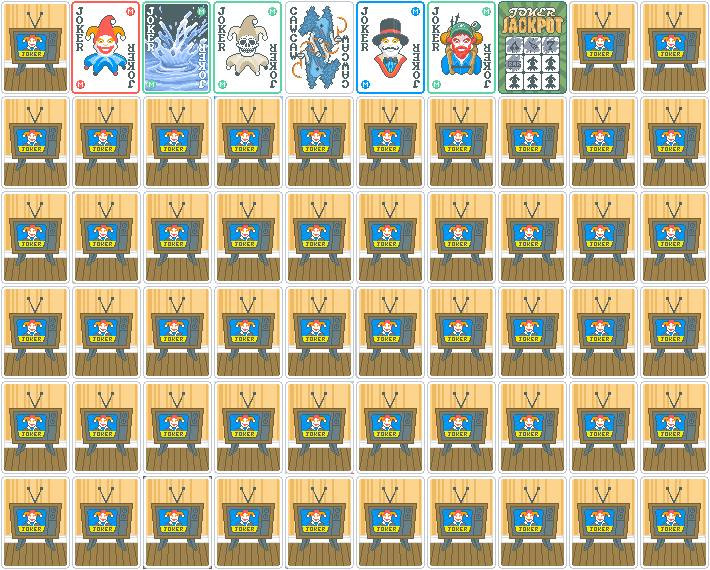
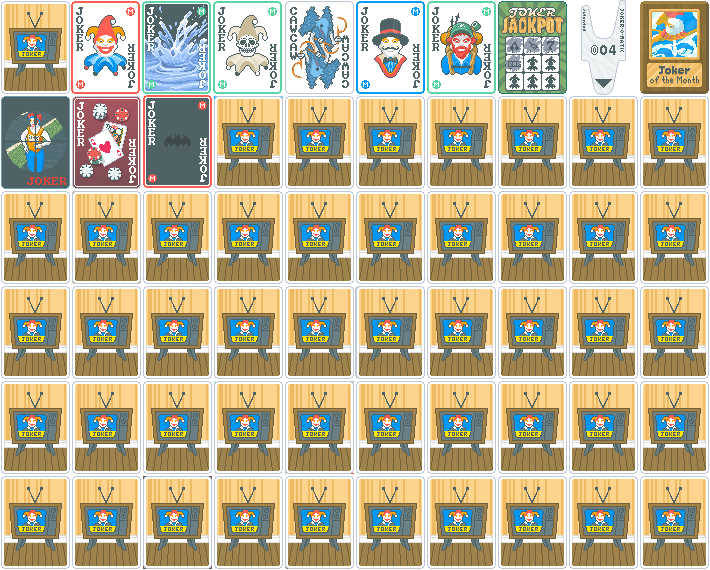
1.0 rewrite (13/60)

Changed region(s): [[0.0, 0.1491, 0.3099, 0.3579], [0.8056, 0.0, 1.0, 0.1789]]

diff --git a/README.md b/README.md
@@ -14,4 +14,4 @@ This is my mod for the game [Balatro](https://store.steampowered.com/app/2379780
 - For more information about installing mods, check the [Steamodded readme](https://github.com/Steamopollys/Steamodded?tab=readme-ov-file#how-to-install-a-mod).
 
 # Credit
-Special thanks to `@Grassy` for making the art and special thanks to `@Dimserene` and `@elbe` for porting the mod to 1.0.
+Special thanks to `@Grassy` for making the art and special thanks to `@elbe` for porting the mod to 1.0.

diff --git a/changelog.md b/changelog.md
@@ -1,9 +1,11 @@
 ## Update V1.0.0
-### Steamodded
+### Steamodded Update
 * Updated to Steamodded version 1.0 and lovely version 0.6.
+### Balance Changes
+* Blackjack Joker now gives X4 Mult instead of X3 Mult.
+* Fisherman can now give negative hand size.
 ### Other
 * Added localization messages to Seal Collector.
-* Fisherman can now give negative hand size.
 * Straight Nate will now only show up if you have either Odd Todd or Even Steven.
 ## Update V0.13.3
 ### Resprites
